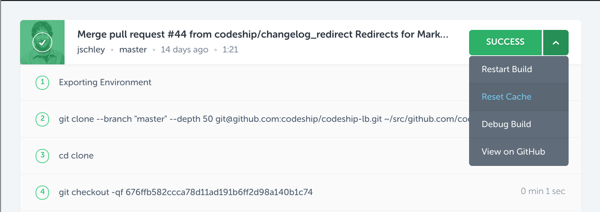
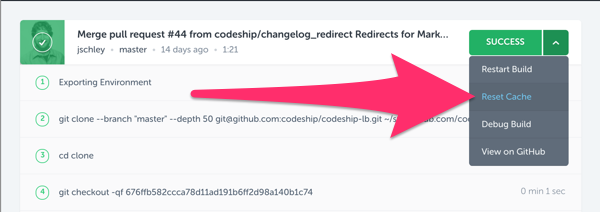
Better debug screenshot

Changed region(s): [[0.3, 0.2547, 0.81, 0.6509]]

diff --git a/_basic/builds-and-configuration/packages.md b/_basic/builds-and-configuration/packages.md
@@ -25,7 +25,7 @@ In a best effort to list everything installed on  our hosted Codeship Basic envi
 
 If you want to check for a certain package or see what the default version is for yourself, you can use the [SSH Debug session]({{ site.baseurl }}{% link _basic/builds-and-configuration/ssh-access.md %}) within your project and connect directly to our build machine.
 
-![Reset Dependency Cache]({{ site.baseurl }}/images/basic-guide/reset-dependency-cache.png)
+![Reset Dependency Cache]({{ site.baseurl }}/images/basic-guide/ssh-debug.png)
 
 Click on the link to open an SSH debug session. You will be provided with the username, server, and port which you can use to access the build machine. You will need an SSH key in your .ssh folder (default). For more information, please read our documentation on [SSH access]({{ site.baseurl }}{% link _basic/builds-and-configuration/ssh-access.md %}).
 
